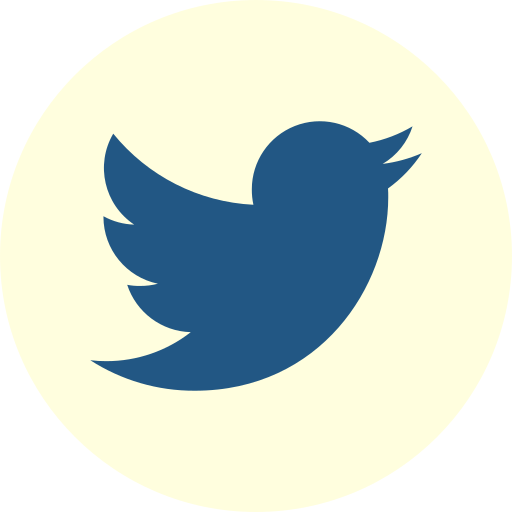
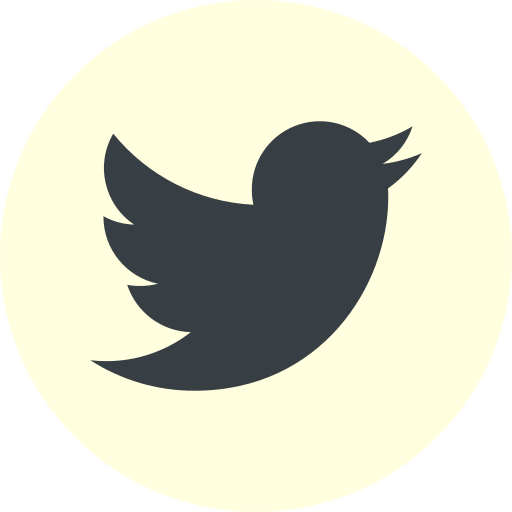
couleur icônes et police du bouton

Changed region(s): [[0.1875, 0.2188, 0.8125, 0.7812]]

diff --git a/css/style.css b/css/style.css
@@ -1,5 +1,6 @@
 @import url("https://fonts.googleapis.com/css2?family=Akaya+Telivigala&display=swap");
 @import url("https://fonts.googleapis.com/css2?family=Roboto&display=swap");
+@import url("https://fonts.googleapis.com/css2?family=Trispace&display=swap");
 *, ::before, ::after {
   margin: 0;
   padding: 0;
@@ -65,11 +66,12 @@ h1 span.fade:nth-child(3), h1 span.fade:nth-child(11), h1 span.fade:nth-child(14
   padding: 15px 30px;
   border-radius: 16px;
   color: #fffEDE;
-  letter-spacing: 4px;
+  letter-spacing: 3px;
   text-decoration: none;
   font-size: 24px;
   overflow: hidden;
   transition: 0.2s;
+  font-family: "Trispace", sans-serif;
 }
 .temoignage:hover {
   color: #225784;
@@ -171,6 +173,9 @@ ul li img {
   transform: translate(-50%, -50%);
   transition: opacity 0.4s 0.2s ease-out, transform 0.4s 0.2s ease-out;
 }
+.modal-container.active .email, .modal-container.active .twitter {
+  opacity: 0;
+}
 .modal-container .overlay {
   width: 100%;
   height: 100%;
@@ -226,12 +231,23 @@ ul li img {
   color: #91523F;
   text-align: center;
 }
+@media (max-width: 600px) {
+  .modal-container .modal h1 {
+    font-size: 20px;
+    margin-top: 20px;
+  }
+}
 .modal-container .modal p {
   line-height: 1.4;
   margin-bottom: 16px;
   font-family: "Roboto", sans-serif;
   text-align: justify;
   font-size: 18px;
+}
+@media (max-width: 600px) {
+  .modal-container .modal p {
+    font-size: 14px;
+  }
 }
 .modal-container .modal p span {
   display: inline-block;

diff --git a/sass/layout/_modal.scss b/sass/layout/_modal.scss
@@ -19,6 +19,9 @@
             transform: translate(-50%, -50%);
             transition: opacity 0.4s 0.2s ease-out, transform 0.4s 0.2s ease-out;
         }
+        & .email, & .twitter{
+            opacity: 0;
+        }
     }
     .overlay{
         width: 100%;
@@ -71,6 +74,10 @@
             font-size: 30px;
             color: #91523F;
             text-align: center;
+            @media (max-width: 600px){
+                font-size: 20px;
+                margin-top: 20px;
+            }
         }
         p{
             line-height: 1.4;
@@ -78,6 +85,9 @@
             font-family: 'Roboto', sans-serif;
             text-align: justify;
             font-size: 18px;
+            @media (max-width: 600px){
+                font-size: 14px;
+            }
             span{
                 display: inline-block;
                 font-family: 'Akaya Telivigala', cursive;

diff --git a/sass/layout/_main.scss b/sass/layout/_main.scss
@@ -58,12 +58,12 @@ h1{
     padding: 15px 30px;
     border-radius: 16px;
     color: #fffEDE;
-    letter-spacing: 4px;
+    letter-spacing: 3px;
     text-decoration: none;
     font-size: 24px;
     overflow: hidden;
     transition: 0.2s;
-    
+    font-family: 'Trispace', sans-serif;
     &:hover{
         color: #225784;
         background-color: #fffEDE;

diff --git a/sass/core/_fonts.scss b/sass/core/_fonts.scss
@@ -1,2 +1,3 @@
 @import url('https://fonts.googleapis.com/css2?family=Akaya+Telivigala&display=swap');
 @import url('https://fonts.googleapis.com/css2?family=Roboto&display=swap');
+@import url('https://fonts.googleapis.com/css2?family=Trispace&display=swap');
